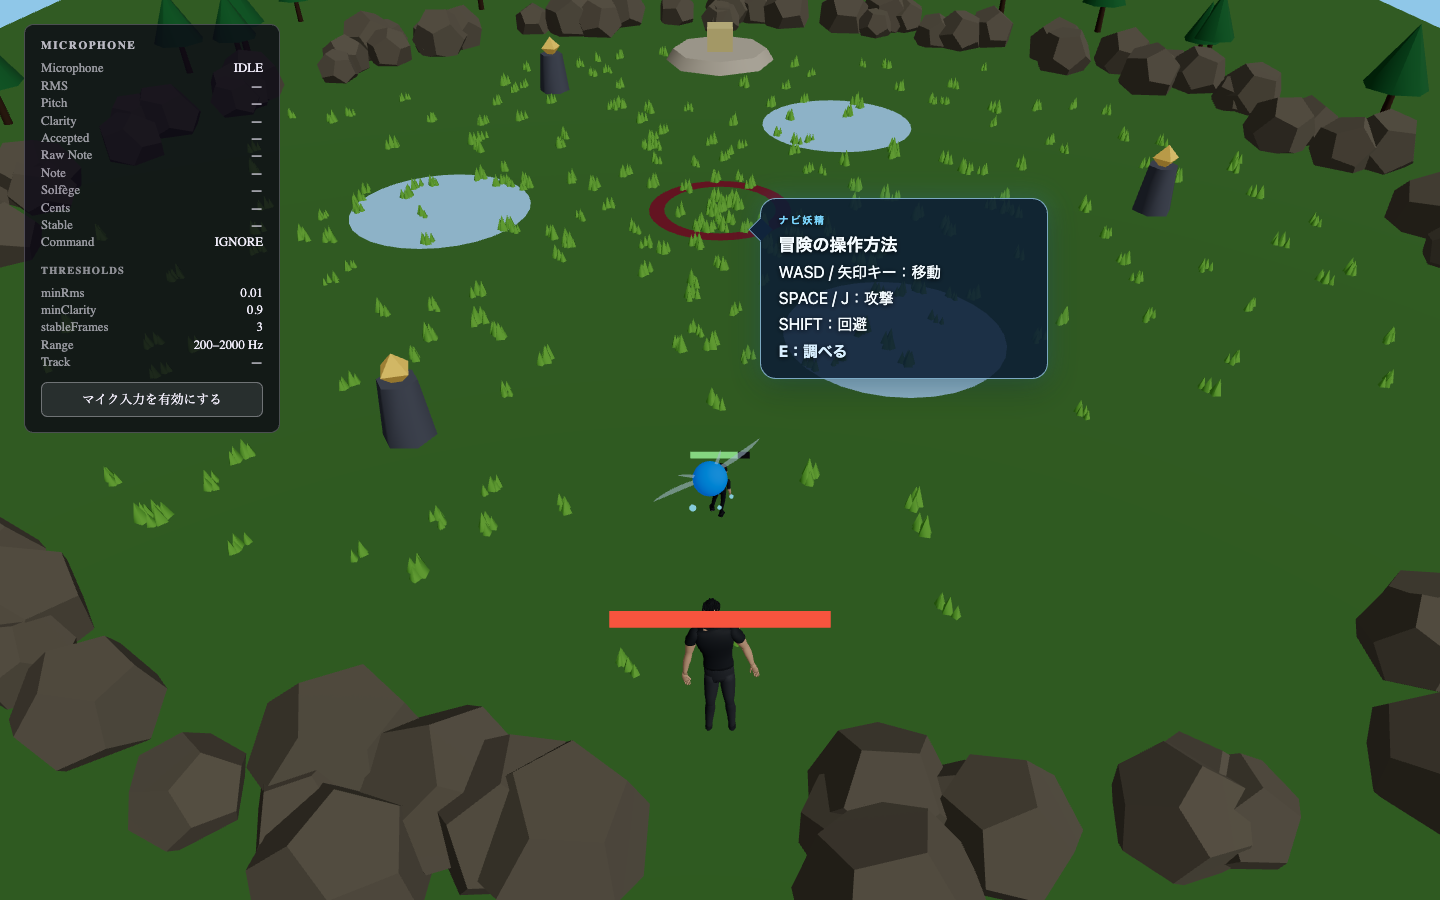
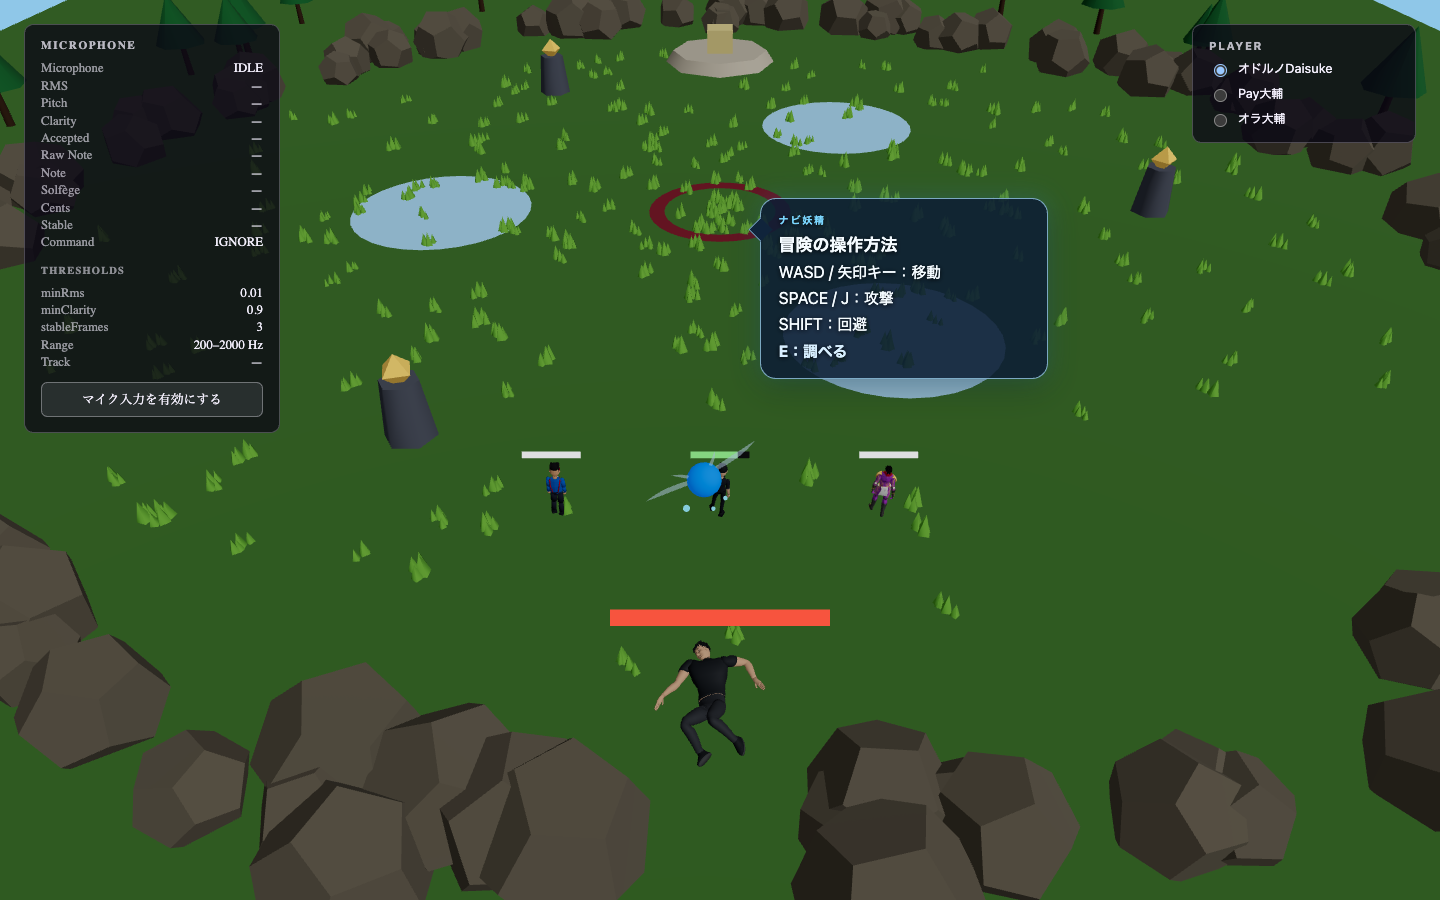
feat: restore solo character switching

diff --git a/src/rendering/boss/BossArenaScene.tsx b/src/rendering/boss/BossArenaScene.tsx
@@ -76,7 +76,7 @@ import { LegendaryOcarina } from './LegendaryOcarina';
  * 同時操作する仕組みではなく、既存セッションとの互換用に残している。
  */
 
-const [, PLAYER_SPAWN] = SPAWN_POINTS;
+const [LEFT_SPAWN, PLAYER_SPAWN, RIGHT_SPAWN] = SPAWN_POINTS;
 
 /**
  * ボス戦の追従カメラ。探索用より高く・遠くする。
@@ -115,9 +115,14 @@ function createBattle(): Battle {
   const battle = createBossBattle({
     clock: createRealClock(),
     events,
-    // スポーン地点は #54 のアリーナ定義をそのまま使う。ソロでは操作する
-    // オドルノだけを生成し、3人協力を前提にした結界は BossBattle 側で省略する。
-    roster: [{ id: 'odoruno', characterId: 'ODORUNO', position: PLAYER_SPAWN }],
+    // スポーン地点は #54 のアリーナ定義をそのまま使う。ソロでも3人を生成し、
+    // 1人のプレイヤーが操作対象を切り替えながら進められるようにする。
+    // 3人協力を前提にした結界は BossBattle 側で省略する。
+    roster: [
+      { id: 'odoruno', characterId: 'ODORUNO', position: PLAYER_SPAWN },
+      { id: 'pay', characterId: 'PAY', position: LEFT_SPAWN },
+      { id: 'ora', characterId: 'ORA', position: RIGHT_SPAWN },
+    ],
     solo: true,
     createBoss: (options) =>
       createHoriBoss(pinned === null ? options : { ...options, pickAttack: () => pinned }),

diff --git a/src/app/App.tsx b/src/app/App.tsx
@@ -11,6 +11,7 @@ import { Hud } from '@/ui/hud/Hud';
 import { EffectSettings } from '@/ui/settings/EffectSettings';
 import { TitleScreen } from '@/ui/title/TitleScreen';
 import { OraDebugPage } from '@/ui/ora-debug/OraDebugPage';
+import { PlayerSwitch } from '@/ui/player-switch/PlayerSwitch';
 import { WasshoiDebug } from '@/ui/wasshoi-debug/WasshoiDebug';
 import { MatchingScreen } from '@/ui/matching/MatchingScreen';
 import { WorldTutorialGuide } from '@/ui/tutorial/WorldTutorialGuide';
@@ -126,6 +127,7 @@ export function App(): React.JSX.Element {
         <GameScene world />
         <FinalePresentation />
         <WorldTutorialGuide />
+        <PlayerSwitch />
         <MicrophoneDebugPanel />
       </div>
     );

diff --git a/src/app/screen.test.tsx b/src/app/screen.test.tsx
@@ -94,6 +94,7 @@ describe('ルートの画面遷移', () => {
     // URL に ?scene=world が無くても、画面がワールドならワールドとして描く。
     // ここが戦闘のままだと、リンク先が Combat の見た目になってしまう。
     expect(gameSceneProps.at(-1)?.world).toBe(true);
+    expect(screen.getByRole('region', { name: '操作キャラ切り替え' })).toBeInTheDocument();
   });
 
   it('ひとり用のイントロをスキップするとワールドを開く (Issue #110)', () => {
